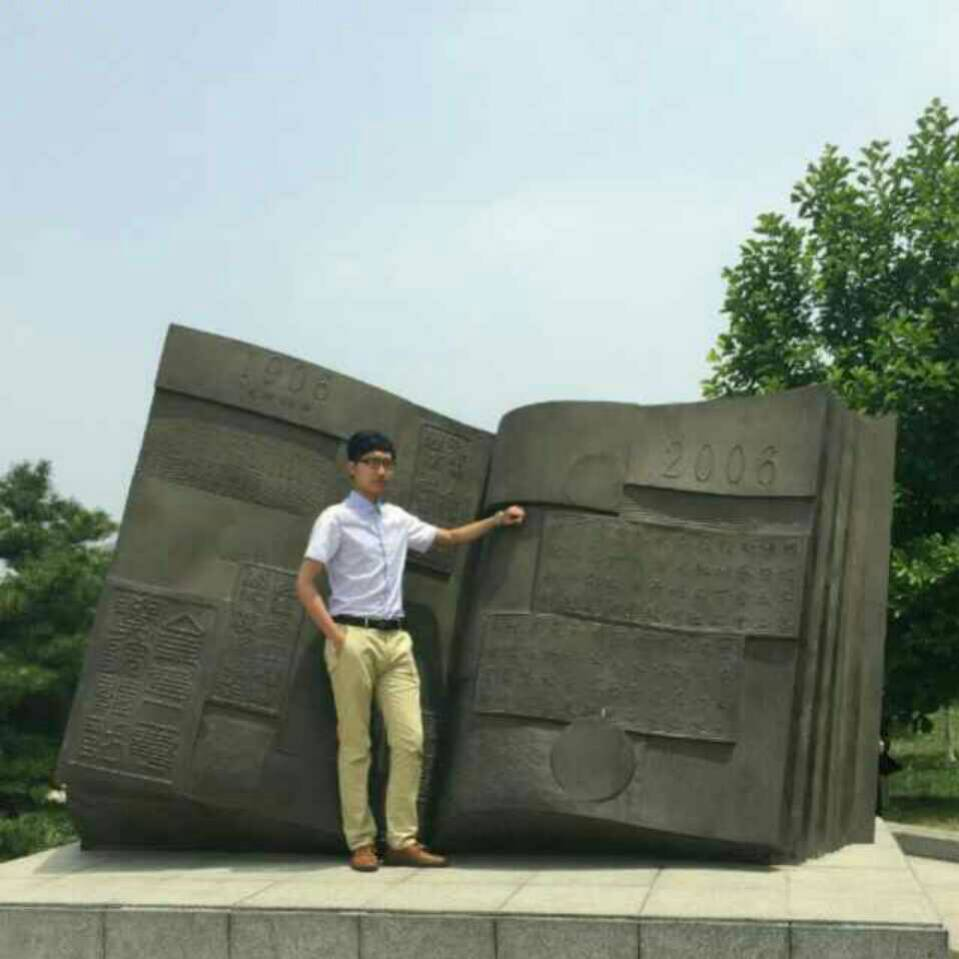
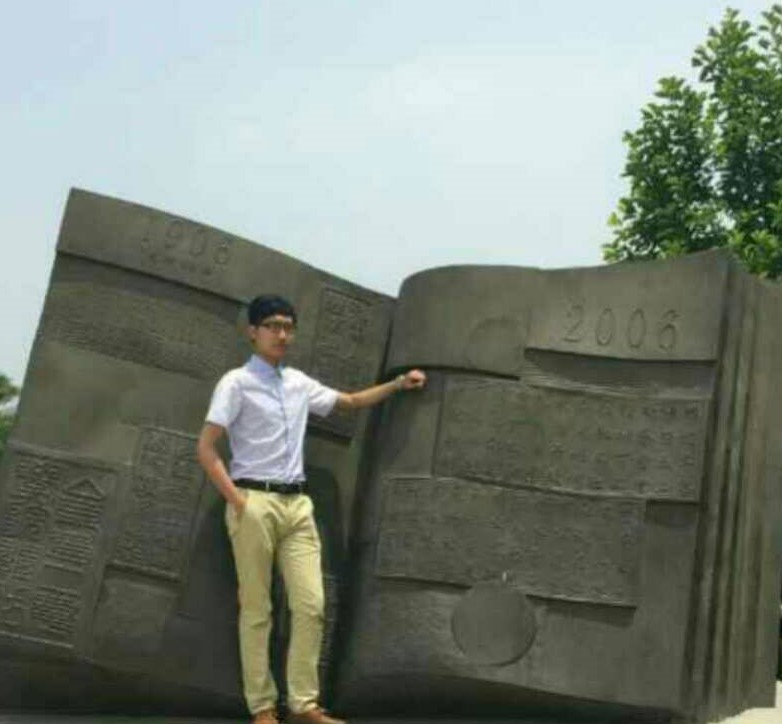
Site updated: 2020-04-10 15:52:01

diff --git a/liu-lab/index.html b/liu-lab/index.html
@@ -17,9 +17,10 @@
 <meta property="og:description" content="title: Welcome to Liu lab date: 2019-11-05 13:59:28 tags: 课题组目前隶属于动物基因组研究中心“猪基因组设计育种创新团队”，侧重开发实验和计算方法，通过整合多组学数据，研究复杂性状形成的遗传基础。方法将在猪的产肉性状上重点应用，从源头上提高生猪种源的质量。 Principal Investigator 刘毓文        工作经历： 201">
 <meta property="og:locale" content="en">
 <meta property="og:image" content="https:&#x2F;&#x2F;i.loli.net&#x2F;2019&#x2F;12&#x2F;23&#x2F;jISbDABumKyzX4c.jpg">
-<meta property="og:image" content="https:&#x2F;&#x2F;i.loli.net&#x2F;2020&#x2F;04&#x2F;10&#x2F;dnsBc3MTjXSlpA1.jpg">
-<meta property="og:image" content="https:&#x2F;&#x2F;i.loli.net&#x2F;2020&#x2F;04&#x2F;10&#x2F;2XfRioZlAJCr7tn.jpg">
-<meta property="og:updated_time" content="2020-04-10T07:38:14.650Z">
+<meta property="og:image" content="http:&#x2F;&#x2F;yfu1116.github.io&#x2F;.io&#x2F;&#x2F;Users&#x2F;dell&#x2F;Desktop&#x2F;git&#x2F;yfu1116.github.io&#x2F;source&#x2F;images&#x2F;张松.jpg">
+<meta property="og:image" content="http:&#x2F;&#x2F;yfu1116.github.io&#x2F;.io&#x2F;&#x2F;Users&#x2F;dell&#x2F;Desktop&#x2F;git&#x2F;yfu1116.github.io&#x2F;source&#x2F;images&#x2F;1.png">
+<meta property="og:image" content="http:&#x2F;&#x2F;yfu1116.github.io&#x2F;.io&#x2F;&#x2F;Users&#x2F;dell&#x2F;Desktop&#x2F;git&#x2F;yfu1116.github.io&#x2F;source&#x2F;images&#x2F;郑伟刚.jpg">
+<meta property="og:updated_time" content="2020-04-10T07:51:41.294Z">
 <meta name="twitter:card" content="summary">
 <meta name="twitter:image" content="https:&#x2F;&#x2F;i.loli.net&#x2F;2019&#x2F;12&#x2F;23&#x2F;jISbDABumKyzX4c.jpg">
   
@@ -236,21 +237,14 @@
 <p>8) Shengtong Han#, Nicholas Knoblauch, Gao Wang, Siming Zhao, <strong>Yuwen Liu</strong>, Yubin Xie, Wenhui Sheng, Hoang T. Nguyen, Xin He*. A Bayesian method for rare variant analysis using functional annotations and its application to Autism[J]. bioRxiv, 2019: 828061.</p>
 <p>9)  Xinxin Ke#, Alesia Walker, Sven-Bastiaan Haange, Ilias Lagkouvardos, <strong>Yuwen Liu</strong>, …, Peter C.K. Cheung*. Synbiotic-driven improvement of metabolic disturbances is associated with changes in the gut microbiome in diet-induced obese mice[J]. Molecular metabolism, 2019, 22: 96-109. </p>
 <p>10)  Yingzheng Wang#, Mingjun Liu, Jiyang Zhang, <strong>Yuwen Liu</strong>, Megan Kopp, Weiwei Zheng, Shuo Xiao*. Multidrug resistance protein 1 deficiency promotes doxorubicin-induced ovarian toxicity in female mice[J]. Toxicological Sciences, 2018, 163(1): 279-292. </p>
-<h3 id="课题组成员"><a href="#课题组成员" class="headerlink" title="课题组成员"></a>课题组成员</h3><figure class="highlight plain"><table><tr><td class="gutter"><pre><span class="line">1</span><br><span class="line">2</span><br><span class="line">3</span><br><span class="line">4</span><br><span class="line">5</span><br></pre></td><td class="code"><pre><span class="line">&lt;div align=&quot;center&quot;&gt;</span><br><span class="line">&lt;img src=&quot;https://i.loli.net/2020/04/10/dnsBc3MTjXSlpA1.jpg&quot; width = &quot;600&quot; height = &quot;900&quot; align = &apos;left&apos; alt=&quot;张松.jpg&quot; style=&quot;zoom:20%;&quot; /&gt;</span><br><span class="line">&lt;img src=&quot;https://i.loli.net/2020/04/10/zmS7jXLx3oYBdsR.png&quot;  alt=&quot;1.png&quot; style=&quot;zoom:60%;&quot; /&gt;</span><br><span class="line">&lt;img src=&quot;https://i.loli.net/2020/04/10/2XfRioZlAJCr7tn.jpg&quot; width = &quot;650&quot; height = &quot;900&quot;  align = &apos;right&apos; alt=&quot;郑伟刚.jpg&quot; style=&quot;zoom:20%;&quot; /&gt;</span><br><span class="line">&lt;/div&gt;</span><br></pre></td></tr></table></figure>
-
-
-
-<figure class="highlight plain"><table><tr><td class="gutter"><pre><span class="line">1</span><br><span class="line">2</span><br><span class="line">3</span><br></pre></td><td class="code"><pre><span class="line">&lt;center class=&quot;third&quot;&gt;</span><br><span class="line">    &lt;img src=&quot;https://i.loli.net/2020/04/10/dnsBc3MTjXSlpA1.jpg&quot; width = &quot;600&quot; height = &quot;900&quot; align = &apos;left&apos; alt=&quot;张松.jpg&quot; style=&quot;zoom:20%;&quot; /&gt;&lt;img src=&quot;https://i.loli.net/2020/04/10/zmS7jXLx3oYBdsR.png&quot; align = &apos;center&apos; width = &quot;600&quot; height = &quot;900&quot;  alt=&quot;1.png&quot; style=&quot;zoom:60%;&quot; /&gt;&lt;img src=&quot;https://i.loli.net/2020/04/10/2XfRioZlAJCr7tn.jpg&quot; width = &quot;650&quot; height = &quot;900&quot;  align = &apos;right&apos; alt=&quot;郑伟刚.jpg&quot; style=&quot;zoom:20%;&quot; /&gt;</span><br><span class="line">&lt;/center&gt;</span><br></pre></td></tr></table></figure>
-
-<p> <img src="https://i.loli.net/2020/04/10/dnsBc3MTjXSlpA1.jpg" width="600" height="900" align="left" alt="张松.jpg" style="zoom:20%;"><img src="https://i.loli.net/2020/04/10/2XfRioZlAJCr7tn.jpg" width="650" height="900" align="right" alt="郑伟刚.jpg" style="zoom:20%;"></p>
+<h3 id="课题组成员"><a href="#课题组成员" class="headerlink" title="课题组成员"></a>课题组成员</h3><p><img src="/.io//Users\dell\Desktop\git\yfu1116.github.io\source\images\张松.jpg" align="left" alt="张松" style="zoom:25%;"> <br></p>
 <p><strong>张松</strong>：博士后</p>
 <p>本硕博：西北农林科技大学</p>
-<p><strong>付阳</strong></p>
-<p>科研助理</p>
+<p><img src="/.io//Users\dell\Desktop\git\yfu1116.github.io\source\images\1.png" align="left" alt="1" style="zoom:60%;"><br></p>
+<p><strong>付阳</strong>：科研助理</p>
 <p>硕士：香港中文大学</p>
 <p>本科：南京农业大学</p>
-<p><strong>郑伟刚</strong></p>
-<p>科研助理</p>
+<p><img src="/.io//Users\dell\Desktop\git\yfu1116.github.io\source\images\郑伟刚.jpg" align="left" alt="郑伟刚" style="zoom:20%;"><br><strong>郑伟刚</strong>：科研助理</p>
 <p>硕士：吉林农业大学</p>
 <p>本科：山东农业大学</p>
 
@@ -380,10 +374,7 @@
   </div>
 
 
-<% if (theme.show_busuanzi_view_counts){ %>
-	<script async src="//busuanzi.ibruce.info/busuanzi/2.3/busuanzi.pure.mini.js">
-	</script>
-<% }%>
+
 
 
 

diff --git a/index.html b/index.html
@@ -361,10 +361,7 @@ Principal Investigator 刘毓文
   </div>
 
 
-<% if (theme.show_busuanzi_view_counts){ %>
-	<script async src="//busuanzi.ibruce.info/busuanzi/2.3/busuanzi.pure.mini.js">
-	</script>
-<% }%>
+
 
 
 

diff --git a/archives/2019/12/index.html b/archives/2019/12/index.html
@@ -350,10 +350,7 @@
   </div>
 
 
-<% if (theme.show_busuanzi_view_counts){ %>
-	<script async src="//busuanzi.ibruce.info/busuanzi/2.3/busuanzi.pure.mini.js">
-	</script>
-<% }%>
+
 
 
 

diff --git a/archives/2019/index.html b/archives/2019/index.html
@@ -350,10 +350,7 @@
   </div>
 
 
-<% if (theme.show_busuanzi_view_counts){ %>
-	<script async src="//busuanzi.ibruce.info/busuanzi/2.3/busuanzi.pure.mini.js">
-	</script>
-<% }%>
+
 
 
 

diff --git a/archives/index.html b/archives/index.html
@@ -350,10 +350,7 @@
   </div>
 
 
-<% if (theme.show_busuanzi_view_counts){ %>
-	<script async src="//busuanzi.ibruce.info/busuanzi/2.3/busuanzi.pure.mini.js">
-	</script>
-<% }%>
+
 
 
 
